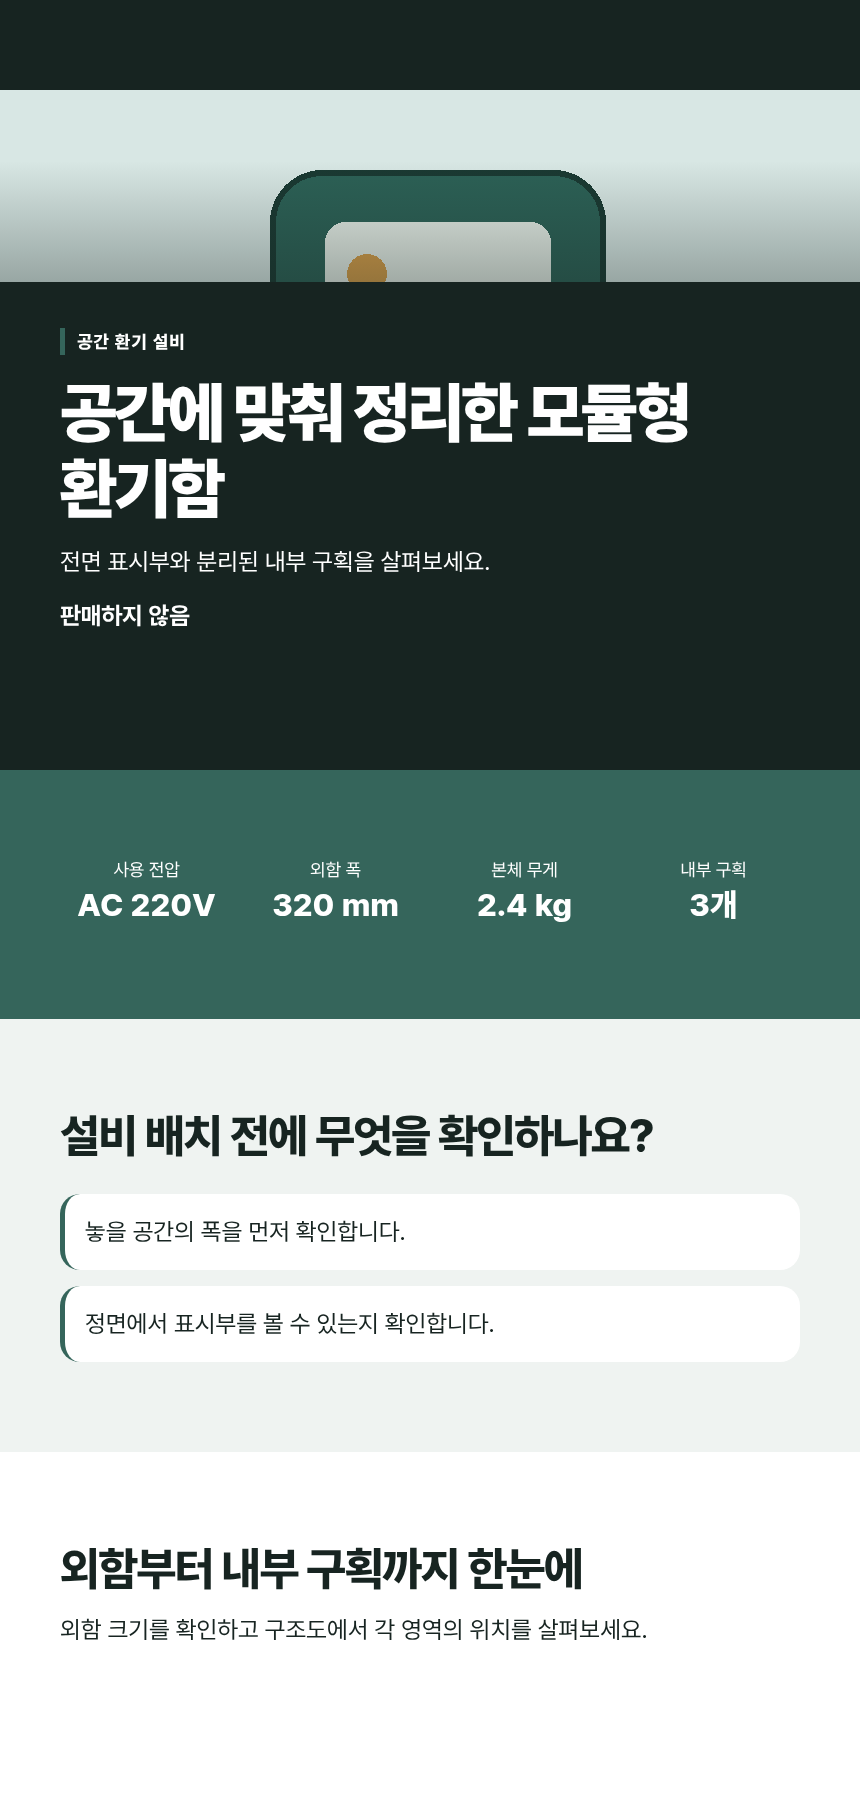
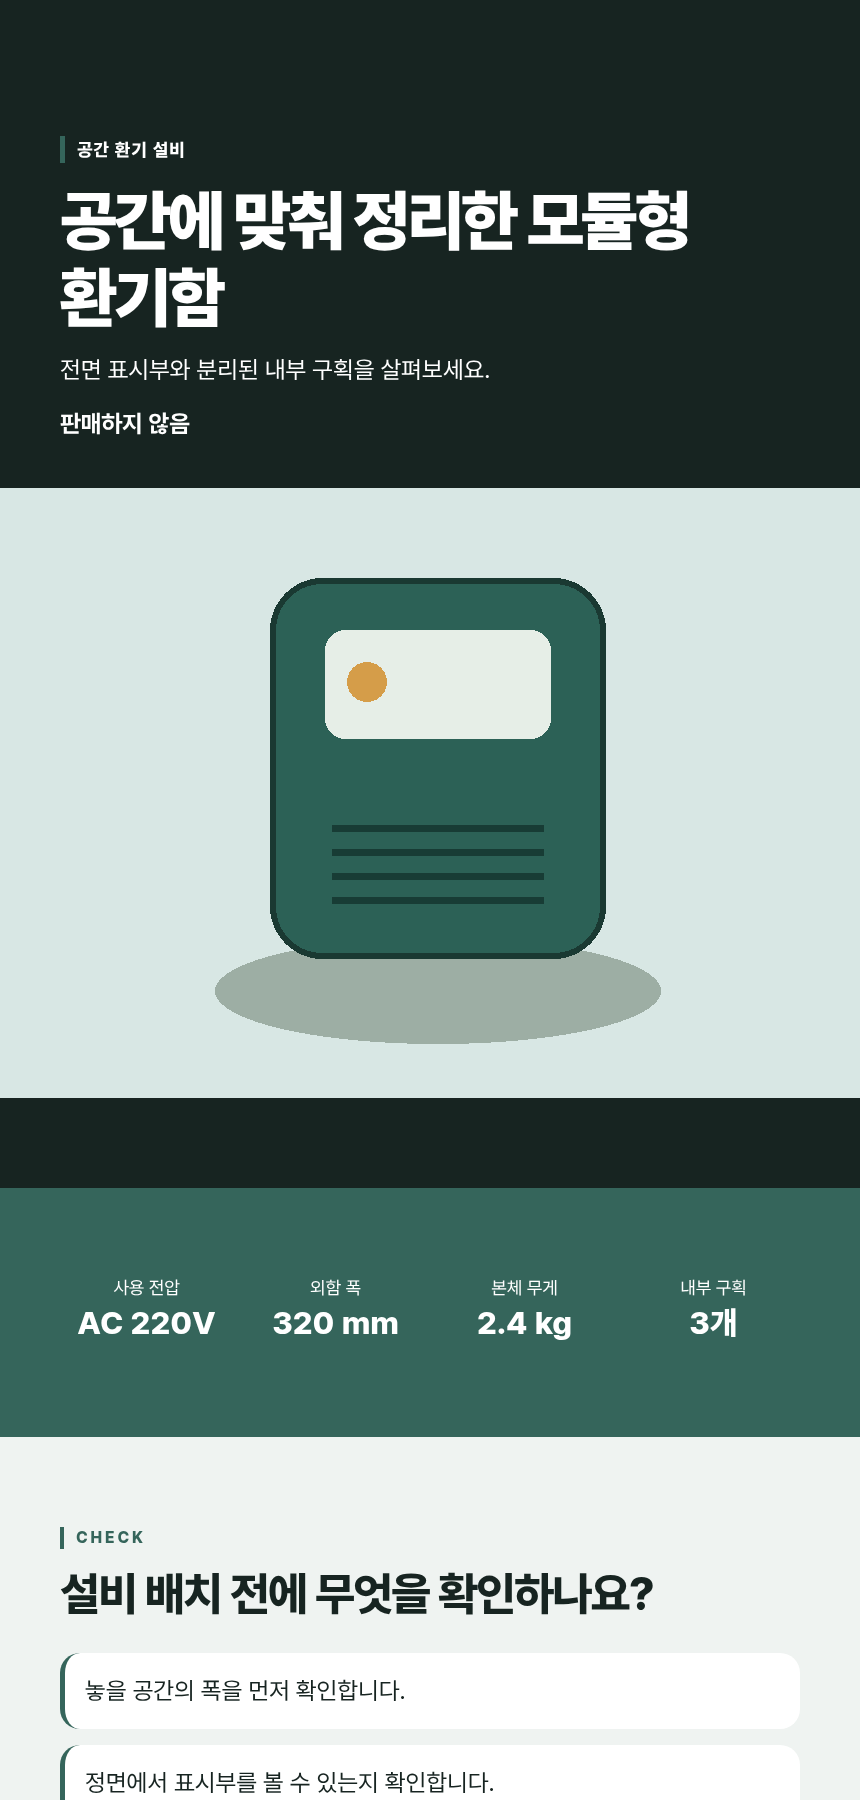
Fix M6 hero visibility, gallery sizing and section labels

diff --git a/detail-page-auto/templates/page.html b/detail-page-auto/templates/page.html
@@ -1,5 +1,5 @@
 <!doctype html>
 <html lang="ko"><head><meta charset="utf-8"><meta name="viewport" content="width=860"><title>{{ product.name }}</title><link rel="stylesheet" href="assets/theme.css">{% for font in fonts | default([]) %}<link rel="stylesheet" href="assets/fonts/{{ font.id }}/fonts.css">{% endfor %}</head>
 {% if contrast_policy == "legacy" %}<body><main style="--brand: {{ product.brand_color }}">{% else %}<body style="{{ theme_variables }}"><main>{% endif %}
-{% for section in sections %}<section data-section="{{ section.id }}" class="{{ section.type }}">{% set variant = (variants | default({})).get(section.type) %}{% if variant %}{% include 'sections/' ~ section.type ~ '/' ~ variant ~ '.html' %}{% elif section.type == 'spec' and section.get('spec_table') %}{% include 'sections/spec/card.html' %}{% else %}{% include 'sections/' ~ section.type ~ '.html' %}{% endif %}</section>{% endfor %}
+{% for section in sections %}<section data-section="{{ section.id }}" class="{{ section.type }}">{% if variants | default({}) %}{% set label = {'pain':'CHECK','solution':'SOLUTION','features':'POINT','structure':'STRUCTURE','targets':'WHERE','spec':'SPEC','faq':'FAQ'}.get(section.type) %}{% if label %}<div class="section-label">{{ label }}</div>{% endif %}{% endif %}{% set variant = (variants | default({})).get(section.type) %}{% if variant %}{% include 'sections/' ~ section.type ~ '/' ~ variant ~ '.html' %}{% elif section.type == 'spec' and section.get('spec_table') %}{% include 'sections/spec/card.html' %}{% else %}{% include 'sections/' ~ section.type ~ '.html' %}{% endif %}</section>{% endfor %}
 </main></body></html>

diff --git a/detail-page-auto/themes/impact/theme.css b/detail-page-auto/themes/impact/theme.css
@@ -12,3 +12,4 @@ h1, h2, h3 { font-weight: 400; }
 .poster figure { position: relative; margin: 0; }
 .poster figcaption { position: absolute; right: 78px; bottom: 18px; max-width: 230px; padding: 8px 18px; border: 3px double currentColor; border-radius: 40px; background: var(--brand); color: var(--on-brand); font-size: 18px; transform: rotate(-7deg); }
 .solution { text-align: center; background: var(--brand); color: var(--on-brand); }
+.section-label { display: inline-block; padding: 7px 14px; background: var(--brand); color: var(--on-brand); border: 2px solid currentColor; }

diff --git a/detail-page-auto/themes/modern/theme.css b/detail-page-auto/themes/modern/theme.css
@@ -3,3 +3,9 @@
 .overlay .eyebrow { border-left: 5px solid var(--brand); padding-left: 12px; }
 .pain-list.cards { grid-template-columns: 1fr; }
 .numbered .point-number { font-size: 92px; }
+
+.overlay { display: flex; flex-direction: column-reverse; }
+.overlay::after { display: none; }
+.overlay > img { height: auto; max-height: none; object-fit: contain; }
+.overlay .hero-copy { background: transparent; }
+.section-label { border-left: 4px solid var(--brand); padding-left: 12px; }

diff --git a/detail-page-auto/themes/industrial/theme.css b/detail-page-auto/themes/industrial/theme.css
@@ -9,3 +9,9 @@
 .overlay::after { background: linear-gradient(var(--background) 14%, transparent 65%); }
 .overlay .hero-copy { text-align: center; }
 .hero .eyebrow { margin-inline: auto; }
+
+.overlay { display: flex; flex-direction: column-reverse; }
+.overlay::after { display: none; }
+.overlay > img { height: auto; max-height: none; object-fit: contain; }
+.overlay .hero-copy { background: transparent; }
+.section-label { letter-spacing: .24em; }

diff --git a/detail-page-auto/themes/design-system.css b/detail-page-auto/themes/design-system.css
@@ -50,3 +50,5 @@ section.image img { max-height: 640px; object-fit: cover; }
 .spec-notes { font-size: 18px; }
 .notice { background: var(--alternate); }
 .overlay .hero-copy { background: var(--dark-surface); width: 100%; }
+
+.section-label { margin-bottom: 18px; color: var(--brand-text); font: 800 16px/1.4 var(--font-body), sans-serif; letter-spacing: .18em; }

diff --git a/detail-page-auto/templates/rich.css b/detail-page-auto/templates/rich.css
@@ -17,3 +17,6 @@
 section.image { padding-inline: 0; }
 section.image img { display: block; width: 100%; max-height: 640px; margin: 0; border-radius: 0; object-fit: cover; }
 .spec-panel td:first-child { width: auto; }
+
+.photo-grid:has(> img:only-child) { grid-template-columns: minmax(0, 1fr); }
+.photo-grid img:only-child { aspect-ratio: auto; }

diff --git a/detail-page-auto/themes/natural/theme.css b/detail-page-auto/themes/natural/theme.css
@@ -8,3 +8,4 @@ h1, h2, h3 { font-weight: 700; }
 .pain { text-align: center; }
 .quote { border-inline-start: 0; }
 .quote h2::before { content: '“'; color: var(--brand-text); margin-right: .2em; }
+.section-label { text-align: center; font-weight: 400; }

diff --git a/detail-page-auto/tests/test_m6.py b/detail-page-auto/tests/test_m6.py
@@ -150,6 +150,24 @@ def test_rich_render_and_dom_contrast(tmp_path, theme, brand):
             def hex_color(css):
                 return '#' + ''.join(f'{int(channel):02x}' for channel in re.findall(r'\d+',css)[:3])
 
+            visible = page.evaluate('''() => {
+                const image = document.querySelector('.hero img').getBoundingClientRect();
+                const copy = document.querySelector('.hero-copy').getBoundingClientRect();
+                const overlap = Math.max(0, Math.min(image.right,copy.right)-Math.max(image.left,copy.left))
+                    * Math.max(0, Math.min(image.bottom,copy.bottom)-Math.max(image.top,copy.top));
+                return 1-overlap/(image.width*image.height);
+            }''')
+            assert visible >= .7
+            assert page.locator('.section-label').all_text_contents() == ['CHECK','SOLUTION','POINT','STRUCTURE','WHERE','SPEC','FAQ']
+            for count in (1,2,3,4):
+                widths = page.evaluate('''count => {
+                    const grid = document.querySelector('.photo-grid');
+                    const original = grid.firstElementChild.cloneNode(true);
+                    grid.replaceChildren(...Array.from({length:count},()=>original.cloneNode(true)));
+                    return [grid.clientWidth, ...[...grid.children].map(e=>e.getBoundingClientRect().width)];
+                }''', count)
+                expected = widths[0] if count == 1 else (widths[0]-16)/2
+                assert all(abs(width-expected)<1 for width in widths[1:])
             assert pairs
             for foreground, background, minimum in pairs:
                 assert contrast_ratio(hex_color(foreground), hex_color(background)) >= minimum, (theme,brand,foreground,background)
